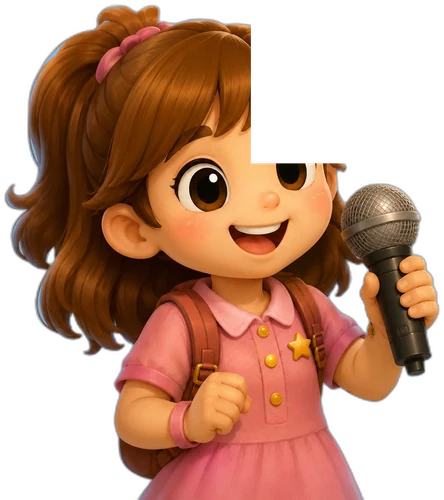
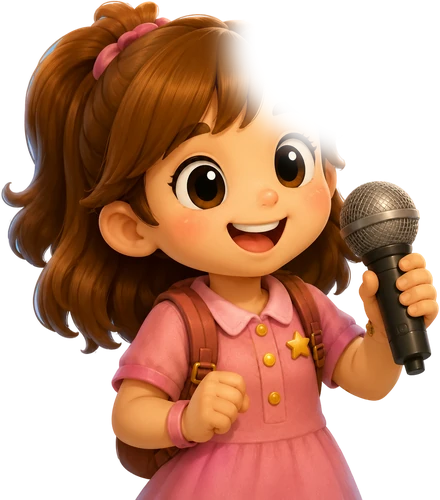
guide回饋5:Speak重去背(alpha matting+羽化擦泡泡,無硬邊藍框);slide2圖示下移放大+身體延到色條按鈕後(z-index);slide3名牌再下移到色條底;藍底驗證去背+逐頁驗證

diff --git a/src/app/guide/GuideSlides.tsx b/src/app/guide/GuideSlides.tsx
@@ -123,13 +123,13 @@ export default function GuideSlides() {
                   </div>
                   {/* 4 圖示（下拉、放大、貼近底色條） */}
                   {STEPS.map(s => (
-                    <div key={s.img} className="absolute flex items-end justify-center" style={{ left: `${s.cx}%`, top: '28%', width: '16%', height: '34%', transform: 'translateX(-50%)' }}>
+                    <div key={s.img} className="absolute flex items-end justify-center" style={{ left: `${s.cx}%`, top: '26%', width: '16%', height: '42%', transform: 'translateX(-50%)', zIndex: 1 }}>
                       <img src={`/images/guide/${s.img}.webp`} alt={s.en} className="max-w-[92%] max-h-full object-contain object-bottom drop-shadow-[0_5px_6px_rgba(60,40,90,0.25)]" style={{ transform: `translateY(${s.dy}) scale(${s.sc})`, transformOrigin: 'bottom center' }} />
                     </div>
                   ))}
                   {/* 標籤 */}
                   {STEPS.map(s => (
-                    <div key={`l-${s.img}`} className="absolute text-center leading-tight" style={{ left: `${s.cx}%`, top: '62.5%', width: '18%', transform: 'translateX(-50%)' }}>
+                    <div key={`l-${s.img}`} className="absolute text-center leading-tight" style={{ left: `${s.cx}%`, top: '63.5%', width: '18%', transform: 'translateX(-50%)', zIndex: 10 }}>
                       <p className="text-white font-black" style={{ fontSize: 'clamp(11px,1.5vw,20px)', textShadow: '0 1px 2px rgba(0,0,0,.28)' }}>{s.en}</p>
                       <p className="text-white/95 font-bold" style={{ fontSize: 'clamp(9px,1.1vw,14px)' }}>{s.zh}</p>
                     </div>
@@ -172,7 +172,7 @@ export default function GuideSlides() {
                   ))}
                   {/* 名字 + 特質（框底色條上） */}
                   {FRIENDS.map(f => (
-                    <div key={`t-${f.key}`} className="absolute text-center" style={{ left: `${f.cx}%`, top: '65.5%', width: '16%', transform: 'translateX(-50%)', zIndex: 10 }}>
+                    <div key={`t-${f.key}`} className="absolute text-center" style={{ left: `${f.cx}%`, top: '68%', width: '16%', transform: 'translateX(-50%)', zIndex: 10 }}>
                       <span className={`${f.pill} inline-block text-white font-black px-3 py-0.5 rounded-full border-2 border-white shadow-md`} style={{ fontSize: 'clamp(9px,1.25vw,18px)' }}>⭐ {f.name}</span>
                       <p className="text-white font-black mt-1 leading-tight" style={{ fontSize: 'clamp(7px,0.95vw,13px)', WebkitTextStroke: '1.5px #5a3410', paintOrder: 'stroke fill' }}>{f.en}</p>
                     </div>
